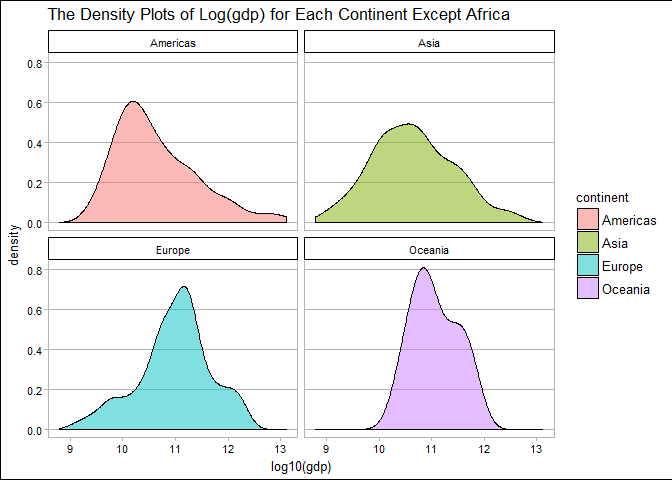
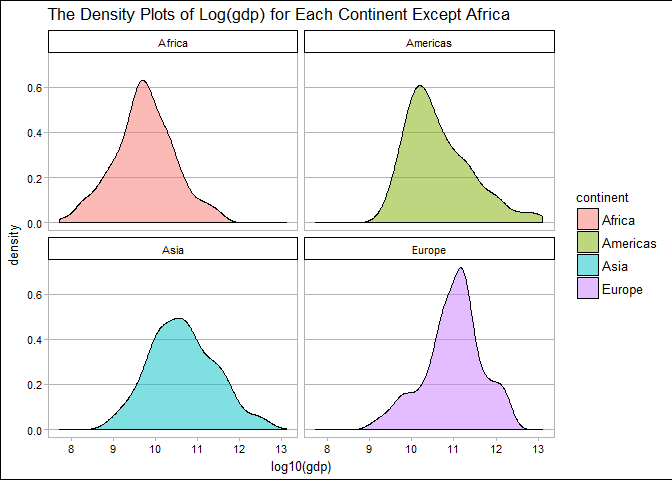
Almost Done

diff --git a/hw02/hw02_Gapminder.md b/hw02/hw02_Gapminder.md
@@ -275,7 +275,7 @@ Here is the density plots of Log(gdp) for each continent except Africa.
 
 ``` r
 gapminder %>% 
-  filter(continent != "Africa") %>% 
+  filter(continent != "Oceania") %>% 
   select(continent, year, pop, gdpPercap) %>% 
   mutate(gdp = gdpPercap*pop) %>% 
   ggplot(aes(x=log10(gdp), fill=continent))+
@@ -287,57 +287,98 @@ gapminder %>%
 
 ![](hw02_Gapminder_files/figure-markdown_github-ascii_identifiers/piping2-1.png)
 
+I just found the interesting plot from ggplot tutorial and try to plot it.
+
+``` r
+jYear <- 2007 # this can obviously be changed
+jPch <- 21
+jDarkGray <- 'grey20'
+jXlim <- c(150, 115000)
+jYlim <- c(16, 100)
+
+gapminder %>%
+  filter(continent != "Oceania", year == jYear) %>% 
+  ggplot(aes(x = gdpPercap, y = lifeExp)) +
+  scale_x_log10(limits = jXlim) + ylim(jYlim) +
+  geom_point(aes(size = sqrt(pop/pi)), pch = jPch, color = jDarkGray,
+             show.legend = FALSE) + 
+  scale_size_continuous(range=c(1,40)) +
+  facet_wrap(~ continent) + coord_fixed(ratio = 1/43) +
+  aes(fill = country) + scale_fill_manual(values = country_colors) +
+  theme_calc() + theme(strip.text = element_text(size = rel(1.1)))
+```
+
+![](hw02_Gapminder_files/figure-markdown_github-ascii_identifiers/piping3-1.png)
+
 Extra Question
 ==============
 
 ``` r
-knitr::kable(filter(gapminder, country == c("Rwanda", "Afghanistan")))
+extra_dat <- filter(gapminder, country == c("Rwanda", "Afghanistan")) %>% 
+  arrange(year)
+my_dat <- filter(gapminder, country %in% c("Rwanda", "Afghanistan")) %>% 
+  arrange(year)
+nrow(extra_dat)
+```
+
+    ## [1] 12
+
+``` r
+nrow(my_dat)
+```
+
+    ## [1] 24
+
+The answer of this question is No. The command, `filter(gapminder, country == c("Rwanda", "Afghanistan"))`, give us only 12 observations. However, there are actually 24 observations. This is because, R will compare two consecutive observations with each time when you use `country==c("Rwanda", "Afghanistan")`. For example, R will compare the country of first observation with Rwanda and the country of second observation with Afghanistan. We can also check it from the tables below.
+
+``` r
+knitr::kable(extra_dat)
 ```
 
 | country     | continent |  year|  lifeExp|       pop|  gdpPercap|
 |:------------|:----------|-----:|--------:|---------:|----------:|
-| Afghanistan | Asia      |  1957|   30.332|   9240934|   820.8530|
-| Afghanistan | Asia      |  1967|   34.020|  11537966|   836.1971|
-| Afghanistan | Asia      |  1977|   38.438|  14880372|   786.1134|
-| Afghanistan | Asia      |  1987|   40.822|  13867957|   852.3959|
-| Afghanistan | Asia      |  1997|   41.763|  22227415|   635.3414|
-| Afghanistan | Asia      |  2007|   43.828|  31889923|   974.5803|
 | Rwanda      | Africa    |  1952|   40.000|   2534927|   493.3239|
+| Afghanistan | Asia      |  1957|   30.332|   9240934|   820.8530|
 | Rwanda      | Africa    |  1962|   43.000|   3051242|   597.4731|
+| Afghanistan | Asia      |  1967|   34.020|  11537966|   836.1971|
 | Rwanda      | Africa    |  1972|   44.600|   3992121|   590.5807|
+| Afghanistan | Asia      |  1977|   38.438|  14880372|   786.1134|
 | Rwanda      | Africa    |  1982|   46.218|   5507565|   881.5706|
+| Afghanistan | Asia      |  1987|   40.822|  13867957|   852.3959|
 | Rwanda      | Africa    |  1992|   23.599|   7290203|   737.0686|
+| Afghanistan | Asia      |  1997|   41.763|  22227415|   635.3414|
 | Rwanda      | Africa    |  2002|   43.413|   7852401|   785.6538|
+| Afghanistan | Asia      |  2007|   43.828|  31889923|   974.5803|
 
 ``` r
-knitr::kable(filter(gapminder, country %in% c("Rwanda", "Afghanistan")))
+knitr::kable(my_dat)
 ```
 
 | country     | continent |  year|  lifeExp|       pop|  gdpPercap|
 |:------------|:----------|-----:|--------:|---------:|----------:|
 | Afghanistan | Asia      |  1952|   28.801|   8425333|   779.4453|
-| Afghanistan | Asia      |  1957|   30.332|   9240934|   820.8530|
-| Afghanistan | Asia      |  1962|   31.997|  10267083|   853.1007|
-| Afghanistan | Asia      |  1967|   34.020|  11537966|   836.1971|
-| Afghanistan | Asia      |  1972|   36.088|  13079460|   739.9811|
-| Afghanistan | Asia      |  1977|   38.438|  14880372|   786.1134|
-| Afghanistan | Asia      |  1982|   39.854|  12881816|   978.0114|
-| Afghanistan | Asia      |  1987|   40.822|  13867957|   852.3959|
-| Afghanistan | Asia      |  1992|   41.674|  16317921|   649.3414|
-| Afghanistan | Asia      |  1997|   41.763|  22227415|   635.3414|
-| Afghanistan | Asia      |  2002|   42.129|  25268405|   726.7341|
-| Afghanistan | Asia      |  2007|   43.828|  31889923|   974.5803|
 | Rwanda      | Africa    |  1952|   40.000|   2534927|   493.3239|
+| Afghanistan | Asia      |  1957|   30.332|   9240934|   820.8530|
 | Rwanda      | Africa    |  1957|   41.500|   2822082|   540.2894|
+| Afghanistan | Asia      |  1962|   31.997|  10267083|   853.1007|
 | Rwanda      | Africa    |  1962|   43.000|   3051242|   597.4731|
+| Afghanistan | Asia      |  1967|   34.020|  11537966|   836.1971|
 | Rwanda      | Africa    |  1967|   44.100|   3451079|   510.9637|
+| Afghanistan | Asia      |  1972|   36.088|  13079460|   739.9811|
 | Rwanda      | Africa    |  1972|   44.600|   3992121|   590.5807|
+| Afghanistan | Asia      |  1977|   38.438|  14880372|   786.1134|
 | Rwanda      | Africa    |  1977|   45.000|   4657072|   670.0806|
+| Afghanistan | Asia      |  1982|   39.854|  12881816|   978.0114|
 | Rwanda      | Africa    |  1982|   46.218|   5507565|   881.5706|
+| Afghanistan | Asia      |  1987|   40.822|  13867957|   852.3959|
 | Rwanda      | Africa    |  1987|   44.020|   6349365|   847.9912|
+| Afghanistan | Asia      |  1992|   41.674|  16317921|   649.3414|
 | Rwanda      | Africa    |  1992|   23.599|   7290203|   737.0686|
+| Afghanistan | Asia      |  1997|   41.763|  22227415|   635.3414|
 | Rwanda      | Africa    |  1997|   36.087|   7212583|   589.9445|
+| Afghanistan | Asia      |  2002|   42.129|  25268405|   726.7341|
 | Rwanda      | Africa    |  2002|   43.413|   7852401|   785.6538|
+| Afghanistan | Asia      |  2007|   43.828|  31889923|   974.5803|
 | Rwanda      | Africa    |  2007|   46.242|   8860588|   863.0885|
 
 Reference
